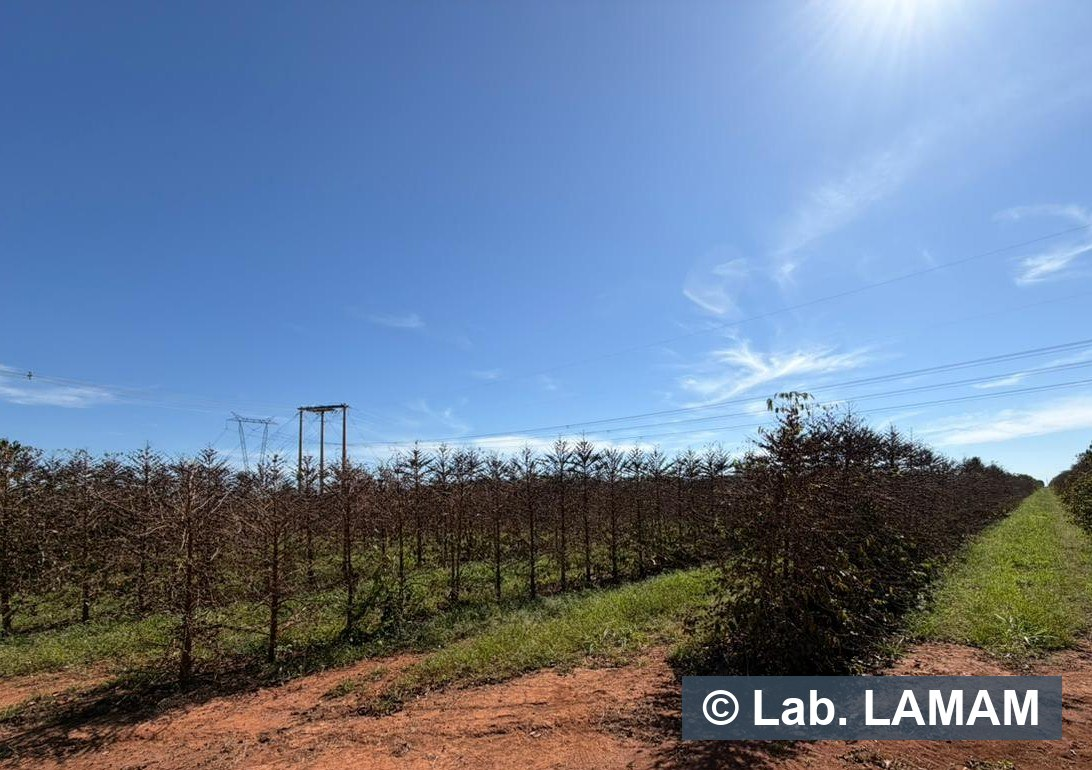
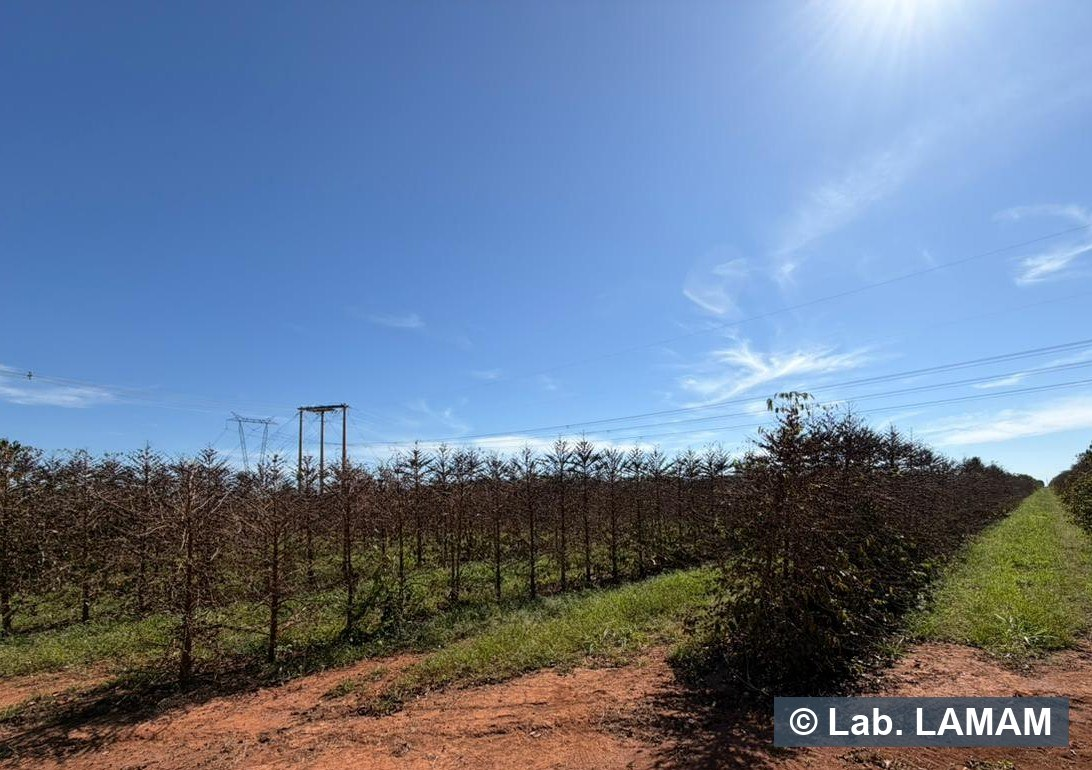
Guia de nematoides: revisão de estilo, cana, pastagem, hortaliças e imagens
- Reduz negrito excessivo nos textos corridos (cisto, sintoma, laudo,
  amostragem, PCR, vida livre, hortaliças).
- Cana: número de atenção para Meloidogyne (acima de 8 J2/g, Novaretti 1997).
- Pastagem: cita Carvalho et al. (2013) e a falta de trabalhos.
- Hortaliças: coluna "o que observar" com sintomas por cultura.
- Retira a caixa da goiaba; "Contar cistos viáveis"; ajuste do M. incognita café.
- Imagens do café: marca d'água de mesmo tamanho visual, marca nos dois painéis
  da cortiça; lavouras sem corte (marca da lavoura velha deixa de ser cortada);
  legenda da lavoura jovem.

Changed region(s): [[0.6227, 0.8727, 0.9963, 0.9974]]

diff --git a/materiais/interpretacao-nematologica.html b/materiais/interpretacao-nematologica.html
@@ -135,12 +135,12 @@
   .gfoto-2.tri img{height:380px;}
   .gfoto-2 figcaption{font-size:.8rem;color:#5b6b78;font-style:italic;margin-top:6px;}
   .gfoto-2.tri figcaption,.gfoto-2.med figcaption{max-width:200px;margin-left:auto;margin-right:auto;}
-  /* par de fotos de mesma largura e altura, lado a lado */
-  .gfoto-par{display:grid;grid-template-columns:1fr 1fr;gap:16px;margin:16px 0;}
+  /* par de fotos de mesma largura, lado a lado (altura natural, sem corte) */
+  .gfoto-par{display:grid;grid-template-columns:1fr 1fr;gap:16px;margin:16px 0;align-items:start;}
   .gfoto-par figure{margin:0;}
-  .gfoto-par img{width:100%;height:240px;object-fit:cover;display:block;border-radius:10px;border:1px solid var(--borda);}
+  .gfoto-par img{width:100%;height:auto;display:block;border-radius:10px;border:1px solid var(--borda);}
   .gfoto-par figcaption{font-size:.8rem;color:#5b6b78;font-style:italic;margin-top:7px;text-align:center;}
-  @media(max-width:600px){.gfoto-par{grid-template-columns:1fr;} .gfoto-par img{height:200px;}}
+  @media(max-width:600px){.gfoto-par{grid-template-columns:1fr;}}
   .pdf-card{display:flex;align-items:center;gap:14px;text-decoration:none;margin:18px 0 4px;
     background:#f3f9fd;border:1px solid #cfe4f3;border-left:4px solid var(--cyan);border-radius:12px;
     padding:14px 18px;transition:background .15s,border-color .15s,box-shadow .15s;}
@@ -224,7 +224,7 @@
         </ol>
       </li>
       <li><a href="#c-pcr">A análise por PCR: o que é e para que serve</a></li>
-      <li><a href="#c-cafe-pcr">Galhas de <i>Meloidogyne</i> no café e o PCR</a></li>
+      <li><a href="#c-cafe-pcr">Nematoides das galhas no cafeeiro e o PCR</a></li>
       <li><a href="#c-material">Material a coletar e enviar</a></li>
       <li><a href="#refs">Referências</a></li>
     </ol>
@@ -234,13 +234,13 @@
   <div class="cult" id="c-laudo">
     <h2 class="ch">Entendendo o seu laudo</h2>
     <div class="cb">
-      <p class="txt"><b>O laudo lista apenas os gêneros encontrados na sua amostra</b>. Não é uma lista fixa: se um
-        gênero não aparece, é porque não foi detectado. A quantificação é feita por <b>gênero</b>; a <b>espécie</b>
+      <p class="txt"><b>O laudo lista apenas os gêneros encontrados na sua amostra.</b> Não é uma lista fixa: se um
+        gênero não aparece, é porque não foi detectado. A quantificação é feita por gênero; a espécie
         (sobretudo em <i>Meloidogyne</i>) é definida por <b>PCR</b>, à parte.</p>
       <div class="aviso"><b>A amostragem determina o resultado.</b> A análise só é representativa quando a coleta é feita
-        corretamente e as <b>amostras simples são bem homogeneizadas</b> antes de formar a amostra composta. Por isso, a
+        corretamente e as amostras simples são bem homogeneizadas antes de formar a amostra composta. Por isso, a
         <b>não detecção de um nematoide não garante a sua ausência</b> na área: amostragem inadequada, população baixa e
-        a época de coleta interferem na <b>recuperação</b> e na <b>detecção</b> do nematoide.</div>
+        a época de coleta interferem na recuperação e na detecção do nematoide.</div>
       <p class="txt">As contagens saem nas unidades do laudo do LAMAM: <b>por 200 cm³ de solo</b> e <b>por 1 grama de
         raiz</b>. É nessas unidades que as faixas desta página estão; dá para comparar direto, sem fazer cálculos.</p>
       <p class="txt">Abaixo, <b>todos os gêneros que o laboratório quantifica</b>, agrupados pelo modo de parasitismo:</p>
@@ -265,10 +265,10 @@
 
       <h3 class="sub">Cisto viável × inviável</h3>
       <p class="txt">No cisto da soja (<i>Heterodera glycines</i>), a fêmea fecundada retém os ovos no corpo e, ao
-        morrer, sua <b>cutícula endurece e escurece</b>, formando o <b>cisto</b> (em média cerca de 200 ovos, podendo
-        chegar a 500). Nem todo cisto no solo é infestação atual: o <b>viável</b> está <b>túrgido e globular</b>,
-        cheio de ovos; o <b>inviável</b> fica <b>vazio e colapsado</b>, por <b>eclosão dos ovos</b> ou por
-        <b>parasitismo</b> de fungos que atacam os ovos dentro do cisto.</p>
+        morrer, sua cutícula endurece e escurece, formando o cisto (em média cerca de 200 ovos, podendo
+        chegar a 500). Nem todo cisto no solo é infestação atual: o <b>viável</b> está túrgido e globular,
+        cheio de ovos; o <b>inviável</b> fica vazio e colapsado, por eclosão dos ovos ou por
+        parasitismo de fungos que atacam os ovos dentro do cisto.</p>
       <div class="gfoto-2">
         <figure><img src="../img/cisto-lado-a-lado.jpg" alt="Cisto viável (esquerda) e inviável (direita) — laboratório LAMAM"><figcaption>À <b>esquerda</b>, o cisto <b>viável</b> (túrgido); à <b>direita</b>, o <b>inviável</b> (colapsado).</figcaption></figure>
         <figure><img src="../img/cisto-tamanhos.jpg" alt="Cistos de diferentes tamanhos e cores — laboratório LAMAM"><figcaption>Cistos variam em tamanho e cor conforme a idade.</figcaption></figure>
@@ -286,9 +286,9 @@
 
       <h3 class="sub">Nematoides de vida livre</h3>
       <div class="nota">Nem todo nematoide do solo é fitoparasita. Os <b>de vida livre</b> se alimentam de bactérias,
-        fungos, matéria orgânica ou de outros nematoides e <b>não parasitam a cultura</b>: sua abundância e diversidade
-        são indicadores de um <b>solo biologicamente ativo</b>. No laudo têm caráter <b>informativo</b>: não representam
-        problema fitossanitário e <b>não</b> se somam aos fitonematoides na avaliação de risco.</div>
+        fungos, matéria orgânica ou de outros nematoides e não parasitam a cultura: sua abundância e diversidade
+        são indicadores de um solo biologicamente ativo. No laudo têm caráter informativo, não representam
+        problema fitossanitário e não se somam aos fitonematoides na avaliação de risco.</div>
 
       <h3 class="sub">Quando pedir a identificação de espécie (PCR)</h3>
       <p class="txt">A rotina identifica por gênero. A <b>PCR</b> (espécie) entra quando o manejo depende dela:
@@ -329,7 +329,7 @@
           <tr>
             <td class="esp">Cisto <small>Heterodera glycines</small></td>
             <td class="band b-baixo">até 5<small>cistos/200 cm³</small></td><td class="band b-medio">5 a 10<small>cistos/200 cm³</small></td><td class="band b-alto">acima de 10<small>cistos/200 cm³</small></td>
-            <td>Contar <b>cistos viáveis</b> (com ovos). 10 cistos viáveis/200 cm³ já custaram cerca de 16% de perda, e em veranico até 1 cisto pesa.</td>
+            <td>10 cistos viáveis/200 cm³ já custaram cerca de 16% de perda, e em veranico até 1 cisto pesa.</td>
           </tr>
           <tr>
             <td class="esp">Galhas <small>Meloidogyne incognita</small></td>
@@ -459,7 +459,7 @@
           <tr>
             <td class="esp">Galhas <small>Meloidogyne incognita</small></td>
             <td class="band b-alto" colspan="3">presença</td>
-            <td>Também das mais agressivas ao cafeeiro, sobretudo em solos arenosos. Detecção confirmada já é decisão de manejo.</td>
+            <td>Espécie agressiva ao cafeeiro, comum em solos arenosos. Detecção confirmada já é decisão de manejo.</td>
           </tr>
           <tr>
             <td class="esp">Lesões <small>Pratylenchus coffeae</small></td>
@@ -543,15 +543,15 @@
           </tr>
           <tr>
             <td class="esp">Galhas <small>Meloidogyne</small></td>
-            <td class="band semnum" colspan="3">sem faixa</td>
-            <td>Em campo, sob infestação natural, a perda chegou a 22% em cultivar suscetível. Os ensaios mediram a perda, sem estabelecer um valor de corte de contagem: em variedade suscetível, população expressiva indica risco.</td>
+            <td class="band semnum" colspan="2">sem faixa</td><td class="band b-alto">acima de 8<small>J2/g de raiz</small></td>
+            <td>Na pré-amostragem de soqueira, acima de 8 J2/g de raiz já indica nível alto. Em campo, a perda chegou a 22% em cultivar suscetível.</td>
           </tr>
         </tbody>
       </table>
       <details class="tec"><summary>Detalhe técnico e fontes</summary>
       <div class="tec-b">
         <div class="tl"><b>P. zeae:</b> em pré-amostragem de soqueira aos 6 meses (por 50 g de raízes): abaixo de 2.500 (= 50/g) o acréscimo com nematicida é de cerca de 5 t/ha (inviável); entre 2.500 e 5.000 (50 a 100/g), cerca de 10 t/ha; acima de 5.000 (mais de 100/g), mais de 15 t/ha (Novaretti, 1997). Magnitude aos 6 meses (Novaretti &amp; Reis, 2009): cada 1.000/50 g corresponde a −1,1 t/ha (aos 2 meses após o corte esse coeficiente sobe para −4,0 t/ha). <span class="nao">Os valores "1.870" e "4.790/50 g" de Dinardo-Miranda et al. (1996) NÃO são limiares: são médias populacionais de genótipos em subparcelas não tratadas, e o próprio trabalho classificou o genótipo de 4.790 como <b>tolerante</b> e o de 1.870 como <b>intolerante</b>, de modo que não servem como faixa de risco.</span></div>
-        <div class="tl"><b>Meloidogyne:</b> em CAMPO (SP, solo arenoso, cana planta), sob infestação natural de <i>M. javanica</i> + <i>P. zeae</i>, a perda chegou a <b>22% (cv. IACSP96-7569) e 17% (cv. CTC20)</b>, estimada pela resposta ao nematicida; média de 10% ou mais, com várias cultivares tolerantes (Dinardo-Miranda, Fracasso &amp; Miranda, 2019). <span class="nao">O percentual medido é o efeito conjunto das DUAS espécies e corresponde aos máximos de duas cultivares específicas: aplica-se a essa condição, e não como faixa geral. A perda foi estimada pela resposta ao nematicida, sem uma densidade correspondente. Endoparasitos também parasitam a cana no NE, em campo (Chaves, Pedrosa &amp; Moura, 2002).</span></div>
+        <div class="tl"><b>Meloidogyne:</b> na pré-amostragem de soqueira, mais de <b>400 J2/50 g de raízes (= 8/g)</b> de <i>M. incognita</i> indicaram nível populacional alto (Novaretti, 1997). Em CAMPO (SP, solo arenoso, cana planta), sob infestação natural de <i>M. javanica</i> + <i>P. zeae</i>, a perda chegou a <b>22% (cv. IACSP96-7569) e 17% (cv. CTC20)</b>, estimada pela resposta ao nematicida; média de 10% ou mais, com várias cultivares tolerantes (Dinardo-Miranda, Fracasso &amp; Miranda, 2019). <span class="nao">O percentual medido é o efeito conjunto das DUAS espécies e corresponde aos máximos de duas cultivares específicas: aplica-se a essa condição, e não como faixa geral. A perda foi estimada pela resposta ao nematicida, sem uma densidade correspondente. Endoparasitos também parasitam a cana no NE, em campo (Chaves, Pedrosa &amp; Moura, 2002).</span></div>
       </div>
       </details>
     </div>
@@ -568,12 +568,12 @@
       <table class="gt sem">
         <thead><tr><th style="width:20%">Cultura</th><th style="width:22%;text-align:left">Nematoide</th><th style="width:26%">Dano começa a partir de</th><th style="width:30%;text-align:left">O que observar</th></tr></thead>
         <tbody>
-          <tr><td><b>Tomate</b></td><td class="esp"><small>Meloidogyne incognita</small></td><td class="band b-medio">180<small>J2/200 cm³</small></td><td>a mais tolerante do grupo</td></tr>
-          <tr><td><b>Pimentão</b></td><td class="esp"><small>Meloidogyne incognita</small></td><td class="band b-medio">80<small>J2/200 cm³</small></td><td></td></tr>
-          <tr><td><b>Berinjela</b></td><td class="esp"><small>Meloidogyne incognita</small></td><td class="band b-alto">11<small>ovos+J2/200 cm³</small></td><td>muito sensível</td></tr>
-          <tr><td><b>Melão / melancia / abobrinha</b></td><td class="esp"><small>Meloidogyne incognita</small></td><td class="band b-alto">3 a 11<small>J2/200 cm³</small></td><td>sensíveis</td></tr>
-          <tr><td><b>Pepino</b></td><td class="esp"><small>Meloidogyne incognita</small></td><td class="band b-alto">presença</td><td>o limite é tão baixo (abaixo do que o laudo detecta) que qualquer detecção já preocupa</td></tr>
-          <tr><td><b>Cenoura</b></td><td class="esp"><small>Meloidogyne incognita</small></td><td class="band b-alto">presença</td><td>o dano é de QUALIDADE (raiz bifurcada, com galhas, sem valor comercial) e começa em densidade no piso de detecção do laudo</td></tr>
+          <tr><td><b>Tomate</b></td><td class="esp"><small>Meloidogyne incognita</small></td><td class="band b-medio">180<small>J2/200 cm³</small></td><td>A mais tolerante do grupo: suporta população alta antes de perder. Fique atento a galhas na raiz e à murcha nas horas quentes.</td></tr>
+          <tr><td><b>Pimentão</b></td><td class="esp"><small>Meloidogyne incognita</small></td><td class="band b-medio">80<small>J2/200 cm³</small></td><td>Tolerância intermediária. Reboleiras de plantas atrofiadas, com galhas na raiz.</td></tr>
+          <tr><td><b>Berinjela</b></td><td class="esp"><small>Meloidogyne incognita</small></td><td class="band b-alto">11<small>ovos+J2/200 cm³</small></td><td>Muito sensível, perde cedo. Galhas volumosas na raiz, plantas amareladas e paradas.</td></tr>
+          <tr><td><b>Melão / melancia / abobrinha</b></td><td class="esp"><small>Meloidogyne incognita</small></td><td class="band b-alto">3 a 11<small>J2/200 cm³</small></td><td>Sensíveis. Reboleiras de plantas que murcham ao meio-dia; raiz com galhas. Pior em solo arenoso.</td></tr>
+          <tr><td><b>Pepino</b></td><td class="esp"><small>Meloidogyne incognita</small></td><td class="band b-alto">presença</td><td>O mais sensível do grupo: o limiar é menor do que o laudo consegue detectar, então qualquer detecção já preocupa.</td></tr>
+          <tr><td><b>Cenoura</b></td><td class="esp"><small>Meloidogyne incognita</small></td><td class="band b-alto">presença</td><td>O prejuízo é de qualidade: raiz bifurcada, com galhas e pelos, perde valor comercial mesmo com poucos nematoides.</td></tr>
         </tbody>
       </table>
       <details class="tec"><summary>Detalhe técnico e fontes</summary>
@@ -621,9 +621,6 @@
             <td>Em levantamento de pomares de maracujá em declínio (DF/MG/GO), galhas apareceram em quase metade das amostras. O trabalho mediu prevalência, não dano: leia junto com sintoma e histórico.</td></tr>
         </tbody>
       </table>
-      <div class="perigo"><b>Por que a goiaba é o caso mais grave:</b> o declínio da goiabeira é uma <b>doença
-        complexa</b>. O <i>M. enterolobii</i> abre a porta para uma podridão de raiz por fungo
-        (<i>Fusarium solani</i>). O nematoide sozinho já é grave; com o fungo, mata a planta.</div>
       <details class="tec"><summary>Detalhe técnico e fontes</summary>
       <div class="tec-b">
         <div class="tl"><b>Citros — T. semipenetrans:</b> perdas relatadas de <b>10 a 30%</b> conforme o nível de infestação (Verdejo-Lucas &amp; McKenry, 2004). Limiares diagnósticos, ambos <b>por grama de raiz</b>: <b>acima de 1.400 fêmeas/g</b> = nível alto na Califórnia em maio e junho (acima de 1.100 em fevereiro a abril), Becker &amp; Westerdahl, UC IPM; e <b>acima de 4.000 juvenis/g</b> = nível crítico para declínio em Israel (Cohn, 1969, citado em Verdejo-Lucas &amp; McKenry, 2004). <span class="nao">São ESTÁGIOS diferentes (fêmea × juvenil), mesmo denominador (g de raiz): não comparar nem somar os dois números. Gabia, Santos &amp; Wilcken (2016) mostraram que a contagem isolada não previu a perda; cruze com sintoma e histórico.</span></div>
@@ -640,10 +637,11 @@
   <div class="cult" id="c-pastagem">
     <h2 class="ch">Pastagem (Brachiaria, Panicum)</h2>
     <div class="cb">
-      <div class="nota"><b>Em pastagem, a contagem não diz se o pasto vai bem ou mal.</b> Um estudo de
-        campo mediu a população e <b>não achou relação</b> entre a quantidade de nematoide e a condição
-        do pasto (bom, médio ou ruim). Por isso o laudo de pastagem serve para <b>escolher a próxima
-        forrageira</b>, não para “aprovar” ou “reprovar” a área.</div>
+      <div class="nota"><b>Em pastagem, a contagem não diz se o pasto vai bem ou mal.</b> Faltam trabalhos
+        que relacionem a densidade de nematoides à condição da pastagem; num levantamento de campo, Carvalho
+        et al. (2013) mediram a população e não encontraram relação entre a quantidade de nematoide e a
+        condição do pasto (bom, médio ou ruim). Por isso o laudo de pastagem serve para escolher a próxima
+        forrageira, não para “aprovar” ou “reprovar” a área.</div>
       <table class="gt sem">
         <thead><tr><th style="width:30%;text-align:left">Capim (para <i>Pratylenchus brachyurus</i>)</th><th style="width:34%">Multiplica o nematoide?</th><th style="width:30%;text-align:left">Uso em área infestada</th></tr></thead>
         <tbody>
@@ -671,9 +669,9 @@
     <div class="cb">
       <p class="txt"><b>O que a PCR responde.</b> A contagem do laudo identifica o nematoide até o
         <b>gênero</b>: <i>Meloidogyne</i>, <i>Pratylenchus</i>, <i>Rotylenchulus</i> e assim por diante.
-        A PCR vai um passo adiante e identifica a <b>espécie</b>. É uma análise <b>qualitativa</b>:
-        responde <b>qual espécie está presente</b> na amostra, e não quantos indivíduos existem. No LAMAM,
-        é realizada principalmente para <b>espécies de <i>Meloidogyne</i></b>, com marcadores moleculares
+        A PCR vai um passo adiante e identifica a <b>espécie</b>. É uma análise qualitativa:
+        responde qual espécie está presente na amostra, e não quantos indivíduos existem. No LAMAM,
+        é realizada principalmente para espécies de <i>Meloidogyne</i>, com marcadores moleculares
         específicos para cada espécie (Zijlstra, Donkers-Venne &amp; Fargette, 2000; Randig et al., 2002).</p>
       <p class="txt"><b>Por que isso muda a decisão.</b> Dentro de um mesmo gênero, as espécies diferem em
         agressividade, em faixa de hospedeiros e na reação das cultivares. Resistência de cultivar e de
@@ -688,7 +686,7 @@
           <tr>
             <td class="esp">Fêmeas <small style="color:#5b6b78">desejável quando há galhas</small></td>
             <td>Extraídas de <b>raízes com galhas</b></td>
-            <td>Havendo raízes com galhas, a fêmea jovem em postura é o material desejável: além do PCR, permite a identificação pelo <b>fenótipo de esterase</b>, que só funciona com fêmeas nessa fase.</td>
+            <td>Havendo raízes com galhas, a fêmea jovem em postura é o material desejável: além do PCR, permite a identificação pelo <b>fenótipo de esterase</b>.</td>
           </tr>
           <tr>
             <td class="esp">Juvenis (J2) <small style="color:#5b6b78">alternativa</small></td>
@@ -718,15 +716,15 @@
         <i>M. exigua</i> é a mais disseminada no Brasil, enquanto <i>M. paranaensis</i> e <i>M. incognita</i> são as
         mais agressivas.</p>
       <p class="txt"><b>Na raiz, o sintoma muda conforme a espécie, e é isso que define o que coletar.</b>
-        <i>M. exigua</i> parasita as <b>radicelas</b> e forma as <b>galhas clássicas, pequenas e arredondadas</b>,
+        <i>M. exigua</i> parasita as <b>radicelas</b> e forma as galhas clássicas, pequenas e arredondadas,
         em série ao longo da raiz fina. Já <i>M. paranaensis</i> e <i>M. incognita</i> penetram em
-        <b>raízes mais grossas</b>, e o sintoma característico é a <b>cortiça</b>: o córtex engrossa,
-        <b>fendilha</b> e sofre <b>descorticamento</b>, desprendendo-se em placas e expondo o tecido
+        raízes mais grossas, e o sintoma característico é a <b>cortiça</b>: o córtex engrossa,
+        fendilha e sofre descorticamento, desprendendo-se em placas e expondo o tecido
         interno, com poucas ou nenhuma galha nítida.</p>
 
       <div class="gfoto-2 cafe">
         <figure class="fg-estreita"><img src="../img/cafe-galhas-exigua.jpg" alt="Galhas de Meloidogyne exigua em radicelas de cafeeiro"><figcaption>Galhas clássicas de <i>M. exigua</i>: pequenas e arredondadas, em série ao longo da radicela.</figcaption></figure>
-        <figure class="fg-larga"><img src="../img/cafe-cortica-1.jpg" alt="Raiz grossa de cafeeiro com cortiça, fendilhamento e descorticamento — detalhe ampliado"><figcaption>Raiz grossa com <b>cortiça</b>, e o <b>detalhe ampliado</b> do sintoma: <b>fendilhamento</b> longitudinal do córtex e <b>descorticamento</b>.</figcaption></figure>
+        <figure class="fg-larga"><img src="../img/cafe-cortica-1.jpg" alt="Raiz grossa de cafeeiro com cortiça, fendilhamento e descorticamento — detalhe ampliado"><figcaption>Raiz grossa com <b>cortiça</b>: fendilhamento longitudinal do córtex e descorticamento, no detalhe ampliado.</figcaption></figure>
       </div>
 
       <p class="txt"><b>Na parte aérea</b>, o parasitismo — sobretudo por <i>M. paranaensis</i> e <i>M. incognita</i> —
@@ -734,7 +732,7 @@
         declínio. Vale percorrer a lavoura e registrar essas manchas antes de coletar.</p>
 
       <div class="gfoto-par">
-        <figure><img src="../img/cafe-lavoura-paranaensis.jpg" alt="Lavoura de café jovem com plantas atrofiadas e falhas em reboleiras"><figcaption>Lavoura jovem: falhas e plantas atrofiadas.</figcaption></figure>
+        <figure><img src="../img/cafe-lavoura-paranaensis.jpg" alt="Lavoura de café jovem com plantas atrofiadas e falhas em reboleiras"><figcaption>Lavoura jovem: reboleiras com falhas, desfolha intensa e plantas mortas.</figcaption></figure>
         <figure><img src="../img/cafe-lavoura-velha.jpg" alt="Lavoura de café adulta em declínio, desfolhada, ao lado de plantas sadias"><figcaption>Lavoura adulta: desfolha intensa e declínio.</figcaption></figure>
       </div>
 